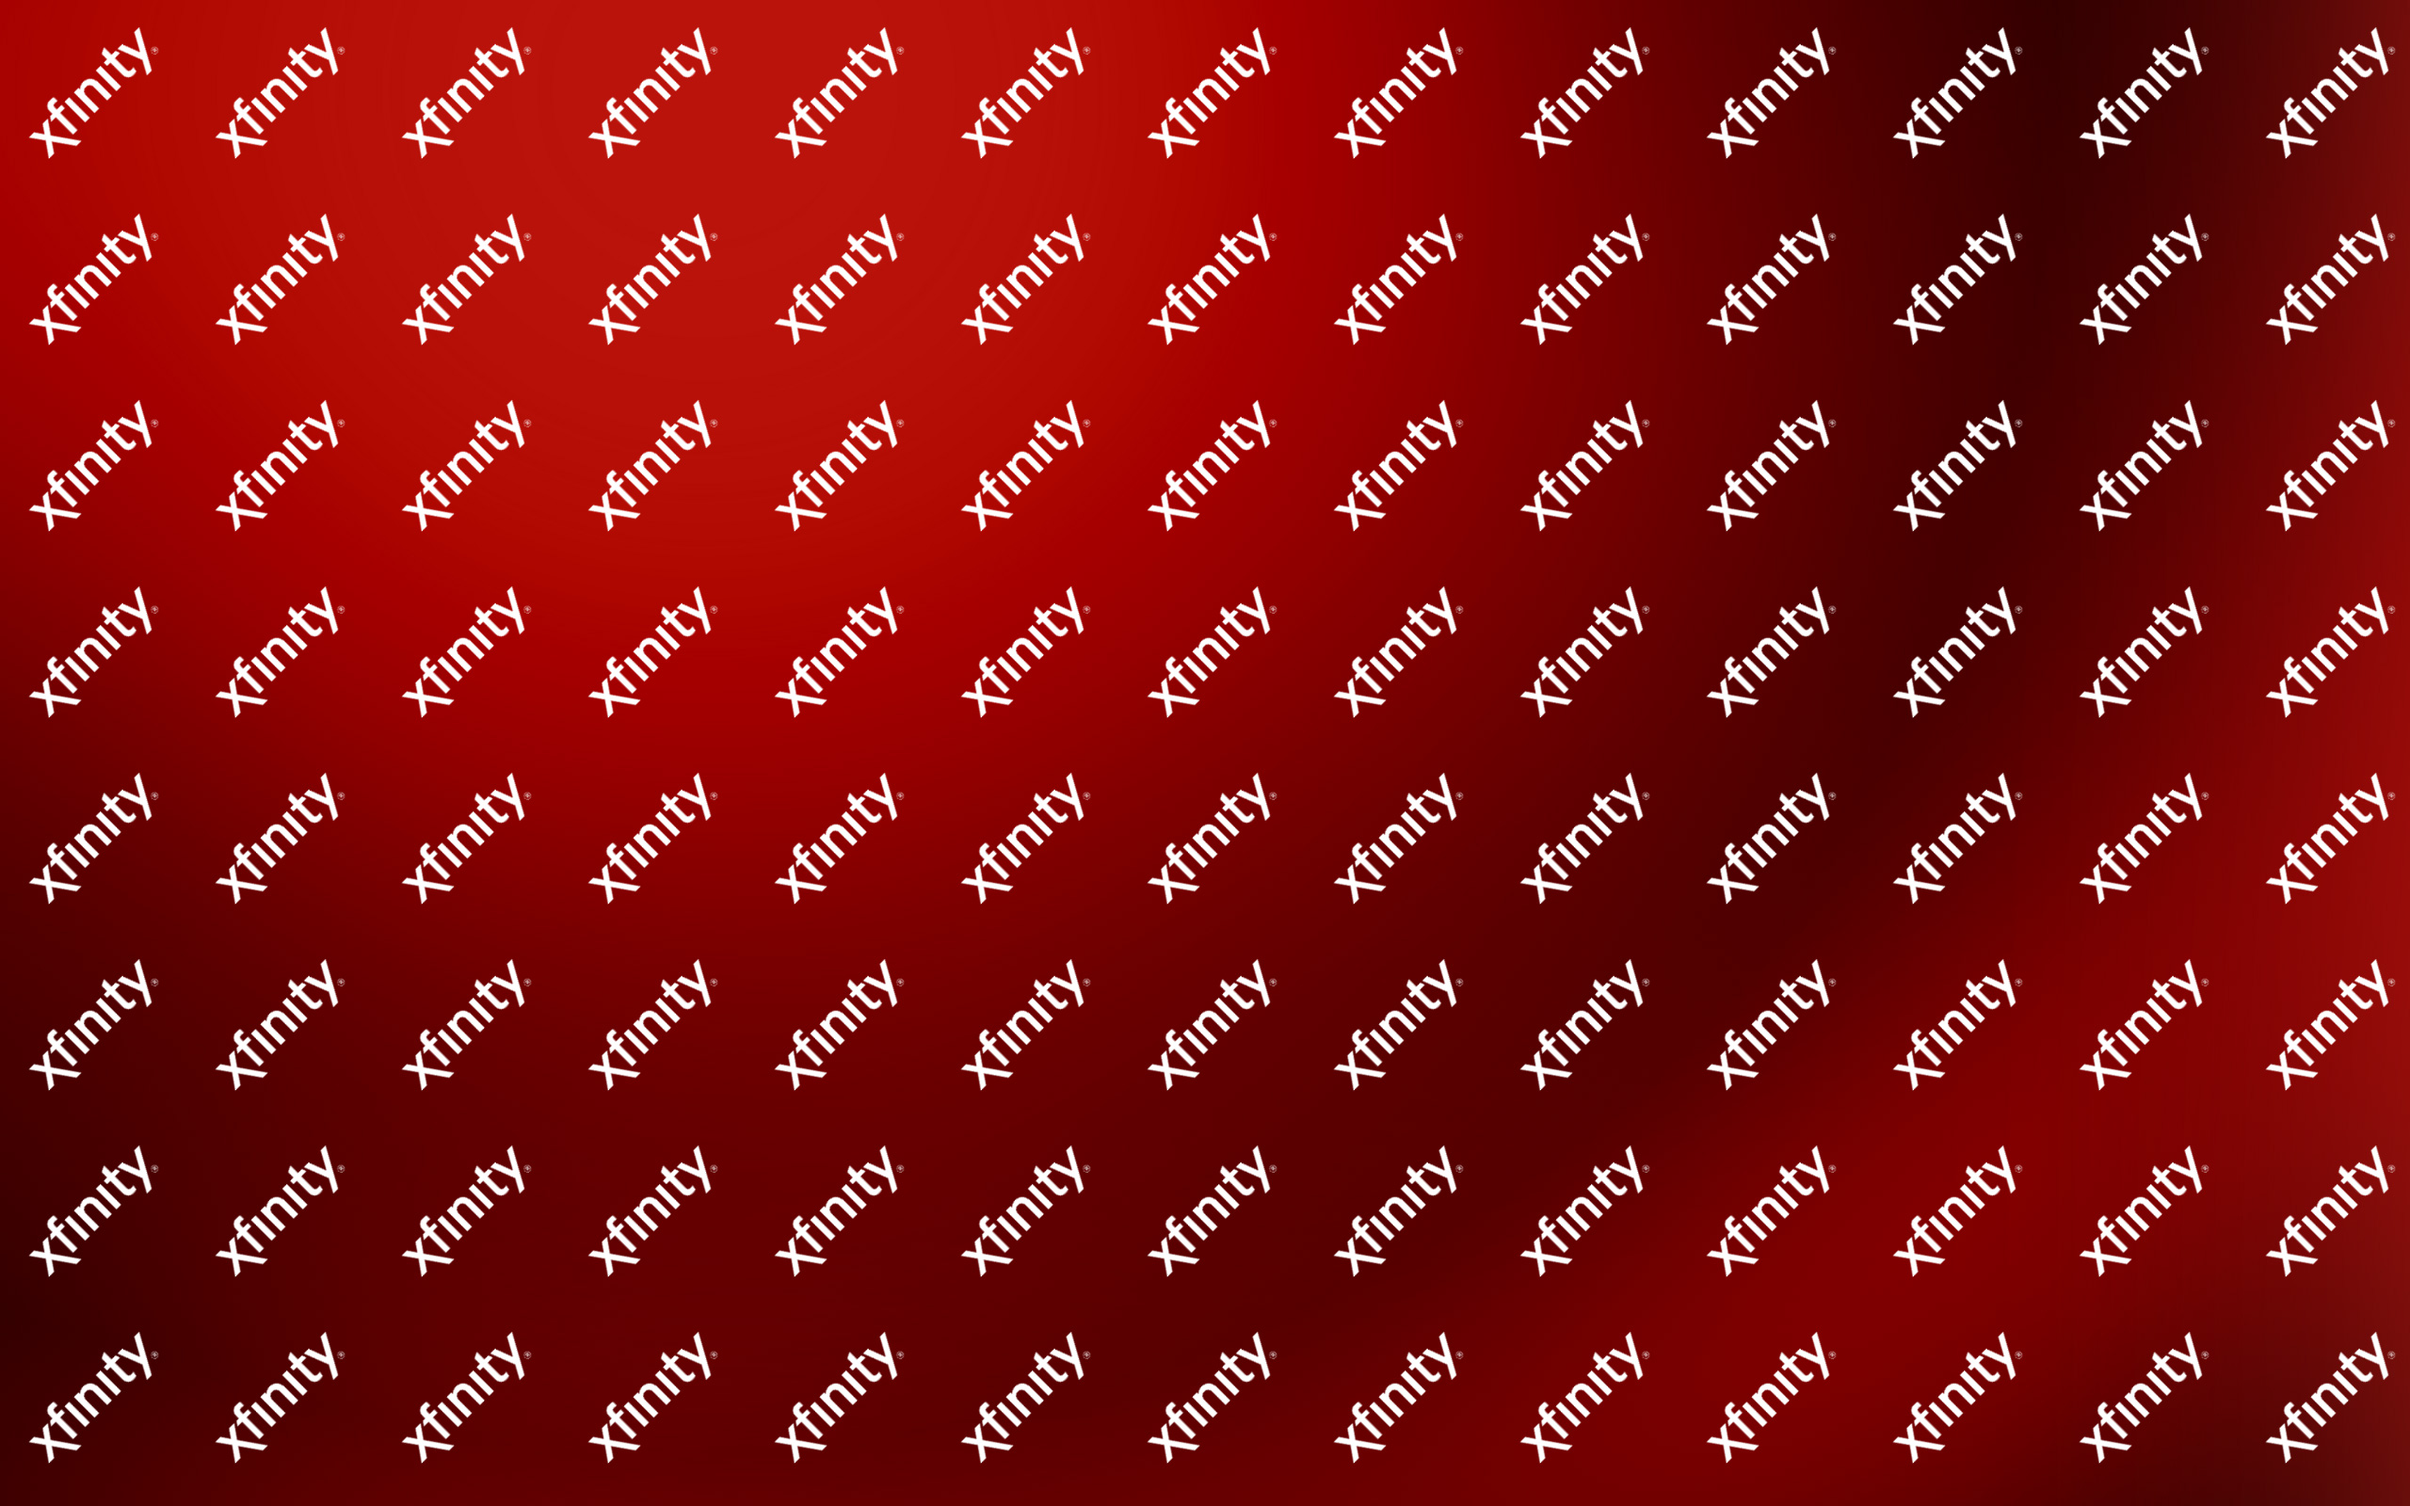
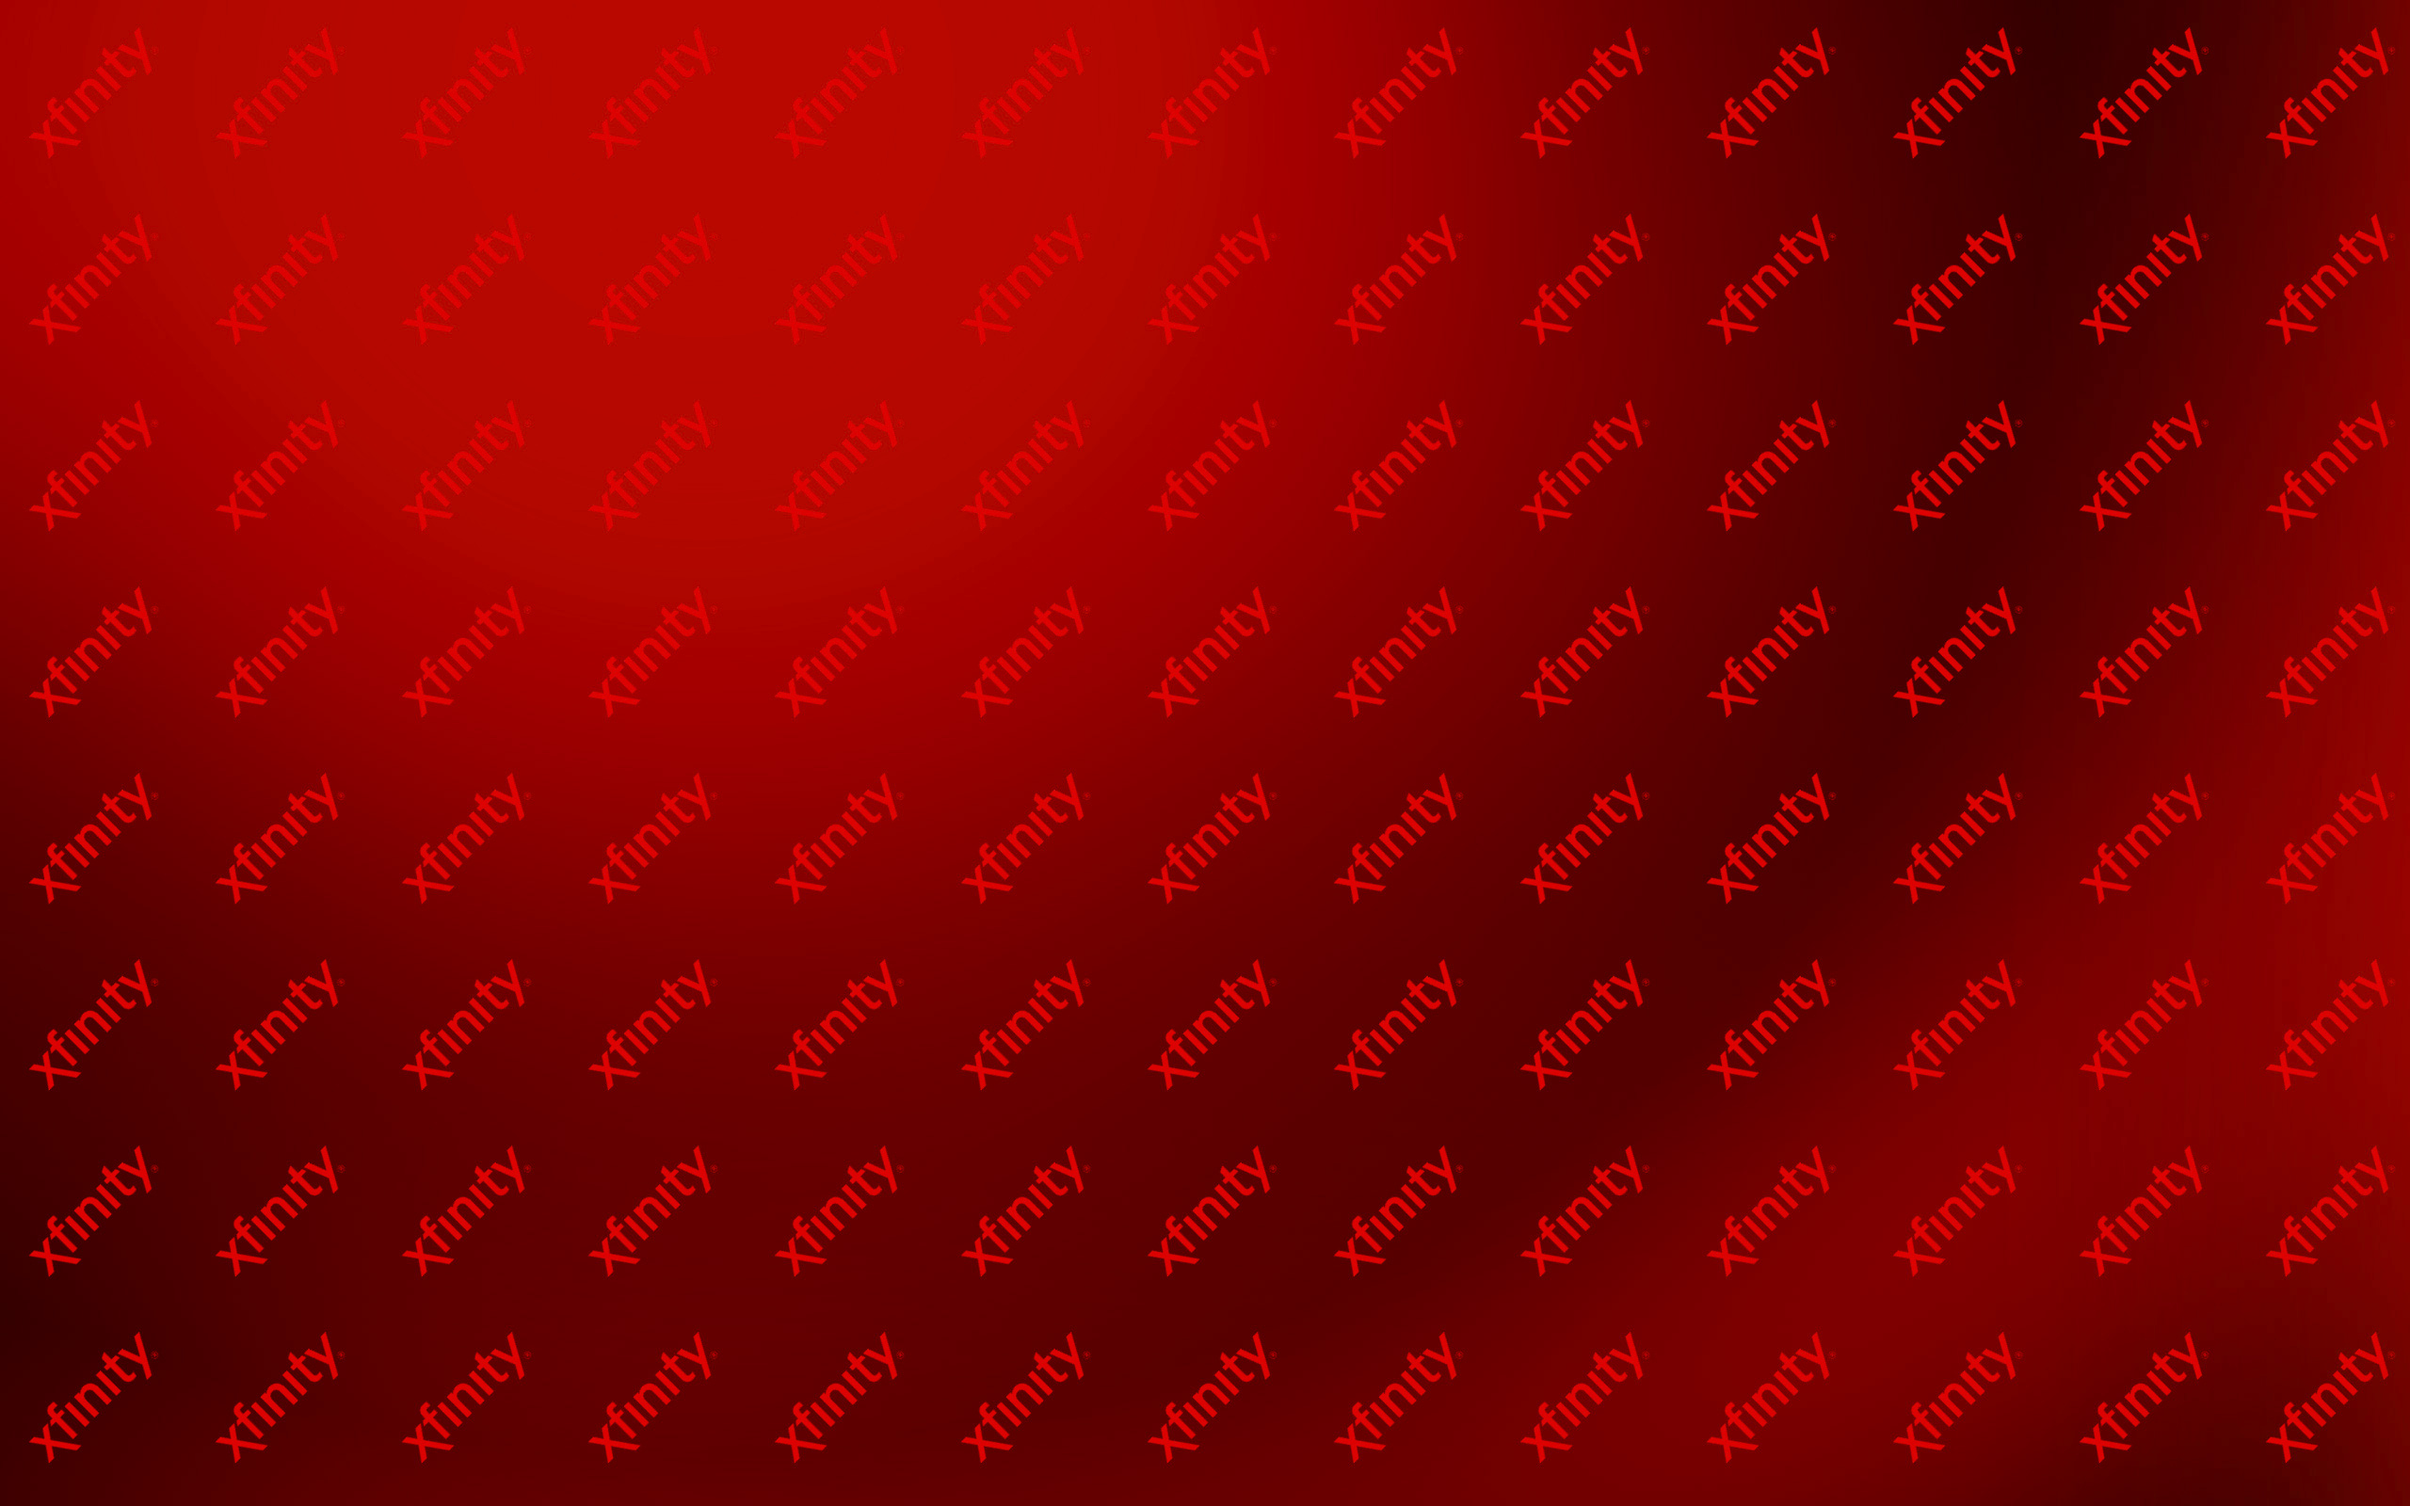
Add Xfinity images

diff --git a/src/Skin/Web/sitecore/shell/Themes/Xfinity/LaunchPad.css b/src/Skin/Web/sitecore/shell/Themes/Xfinity/LaunchPad.css
@@ -1,0 +1,7 @@
+@import url(/sitecore/shell/client/Applications/LaunchPad/LaunchPad.css);
+
+.sc-applicationContent-main {
+    background-image: url(Xfinity-small.png) !important;
+    background-repeat: repeat !important;
+    
+}
